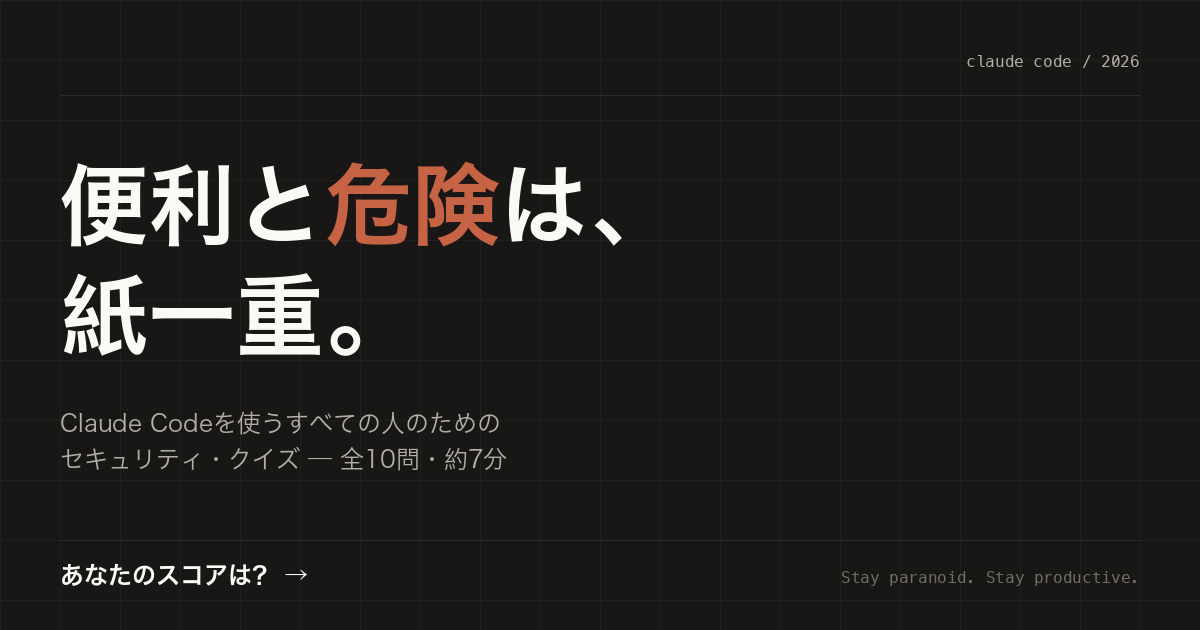
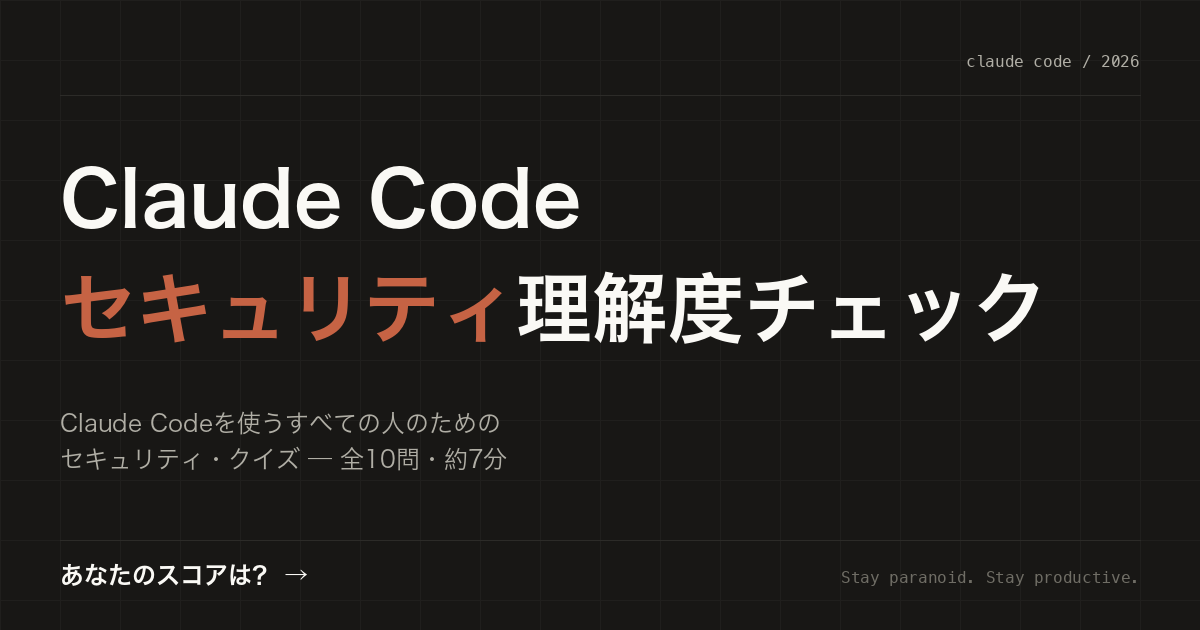
Rename top page title to quiz name across UI and OGP cover
Replace the catchphrase-style hero ("便利と危険は紙一重" / "Useful
and dangerous are a hair apart") with the quiz's plain name
"Claude Code セキュリティ理解度チェック" / "Claude Code Security
Quiz" on the H1, <title>, og:title, twitter:title, and the home
OGP cover image (public/og/cover.png, public/og/en/cover.png).
"セキュリティ" / "Security" stays in accent orange.

JA cover needs a smaller title font (76px vs 88px) because the
second line is 13 CJK glyphs and would otherwise overflow the
1080px content area.

Changed region(s): [[0.0308, 0.2413, 0.5242, 0.3921], [0.37, 0.4222, 0.8633, 0.5429], [0.0308, 0.4222, 0.37, 0.573]]

diff --git a/src/lib/i18n/ja.ts b/src/lib/i18n/ja.ts
@@ -2,12 +2,13 @@ import type { Translations } from '../types';
 
 const ja: Translations = {
   ui: {
-    htmlTitle: 'Claude Code セキュリティ・クイズ / SECURITY DRILL #001',
+    htmlTitle: 'Claude Code セキュリティ理解度チェック',
 
     topbarRight: '2026',
 
     heroMeta: '全10問',
-    heroTitleHtml: '便利と<span class="accent">危険</span>は、<br>紙一重。',
+    heroTitleHtml:
+      'Claude Code<br><span class="accent">セキュリティ</span>理解度チェック',
     heroLedeHtml:
       'Claude Codeはあなたのファイルを読み、コマンドを実行し、外部サービスとも繋がる。その<strong>強力さ</strong>は、そのまま<strong>攻撃面</strong>でもあります。<br><br>このドリルは、「何を許して、何を許してはいけないか」の感覚を身につけるための10問です。所要時間は約7分。',
 

diff --git a/src/lib/i18n/en.ts b/src/lib/i18n/en.ts
@@ -2,13 +2,13 @@ import type { Translations } from '../types';
 
 const en: Translations = {
   ui: {
-    htmlTitle: 'Claude Code Security Quiz / SECURITY DRILL #001',
+    htmlTitle: 'Claude Code Security Quiz',
 
     topbarRight: '2026',
 
     heroMeta: '10 questions',
     heroTitleHtml:
-      'Useful and <span class="accent">dangerous</span><br>are a hair apart.',
+      'Claude Code<br><span class="accent">Security</span> Quiz',
     heroLedeHtml:
       'Claude Code reads your files, runs commands, and connects to external services. That <strong>power</strong> is also your <strong>attack surface</strong>.<br><br>This drill is 10 questions to sharpen your sense of what to allow — and what not to. About 7 minutes.',
 

diff --git a/scripts/_common.py b/scripts/_common.py
@@ -152,8 +152,8 @@ def og_rank_subtitle(score, lang):
 COVER_STRINGS = {
     "ja": {
         "title_lines": [
-            [("便利と", "INK"), ("危険", "ACCENT"), ("は、", "INK")],
-            [("紙一重。", "INK")],
+            [("Claude Code", "INK")],
+            [("セキュリティ", "ACCENT"), ("理解度チェック", "INK")],
         ],
         "subtitle_lines": [
             "Claude Codeを使うすべての人のための",
@@ -163,8 +163,8 @@ COVER_STRINGS = {
     },
     "en": {
         "title_lines": [
-            [("Useful and ", "INK"), ("dangerous", "ACCENT")],
-            [("are a hair apart.", "INK")],
+            [("Claude Code", "INK")],
+            [("Security", "ACCENT"), (" Quiz", "INK")],
         ],
         "subtitle_lines": [
             "A security quiz for everyone",

diff --git a/scripts/generate_cover.py b/scripts/generate_cover.py
@@ -40,8 +40,11 @@ def make_cover(lang, output_path):
 
     draw.line([(60, 95), (W - 60, 95)], fill=LINE, width=1)
 
-    # Main title — large, multi-segment, multi-line
-    title_font = load_font("sans_bold", 88, lang)
+    # Main title — large, multi-segment, multi-line.
+    # JA has more glyphs in the second line ("セキュリティ理解度チェック", 13 CJK chars)
+    # so it needs a smaller size to fit within the 1080px content area.
+    title_font_size = 76 if lang == "ja" else 88
+    title_font = load_font("sans_bold", title_font_size, lang)
     title_lines = COVER_STRINGS[lang]["title_lines"]
     line_y_start = 160
     line_height = 110
